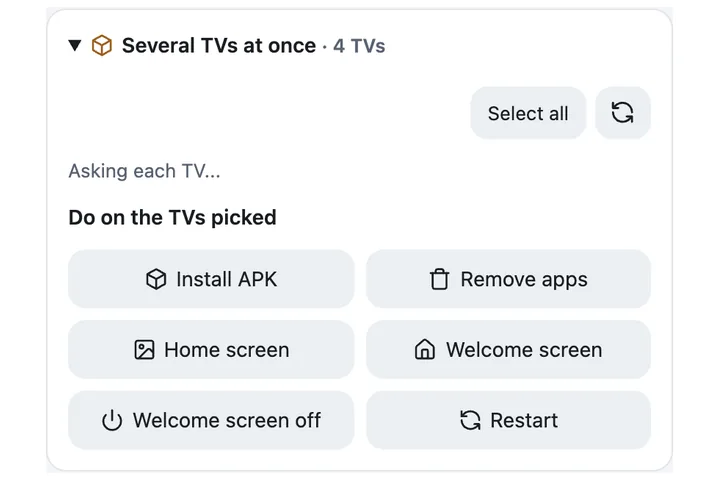
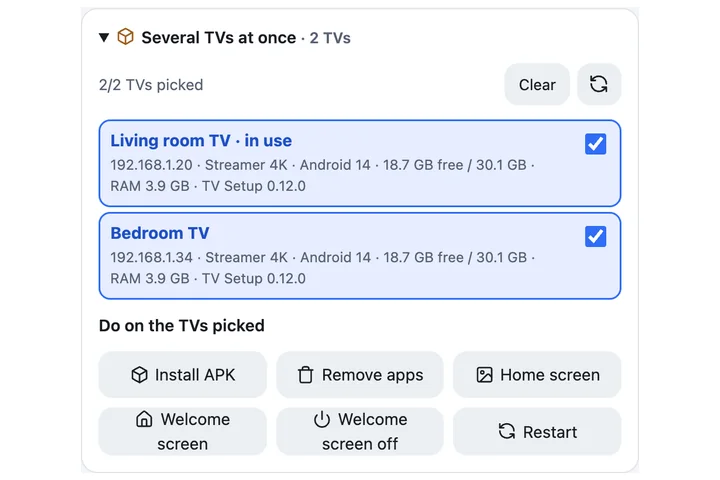
Home page: And more cards for Several TVs (demo shot with TV rows), TV settings (DNS filter, screensaver), TV health; 22 cards
Claude-Session: https://claude.ai/code/session_01VniwkGfJmfjur9oWWJ2baz

diff --git a/docs/index.html b/docs/index.html
@@ -174,7 +174,7 @@ function LI(i){var L=document.documentElement.dataset.lang;if(i.dataset.langSrcs
         <p class="lead"><span class="vi">Vuốt để xem thêm. Bấm vào thẻ để đọc hướng dẫn.</span><span class="en">Swipe for more. Tap a card for its guide.</span></p>
       </div>
       <div class="car-ctl" aria-label="Carousel">
-        <span class="car-n" id="car-n" aria-live="polite">1 / 20</span>
+        <span class="car-n" id="car-n" aria-live="polite">1 / 22</span>
         <button type="button" class="car-b" id="car-prev" aria-label="Previous" disabled><svg viewBox="0 0 24 24" fill="none" stroke="currentColor" stroke-width="2.4" stroke-linecap="round" stroke-linejoin="round"><path d="M15 5l-7 7 7 7"/></svg></button>
         <button type="button" class="car-b" id="car-next" aria-label="Next"><svg viewBox="0 0 24 24" fill="none" stroke="currentColor" stroke-width="2.4" stroke-linecap="round" stroke-linejoin="round"><path d="M9 5l7 7-7 7"/></svg></button>
       </div>
@@ -270,6 +270,16 @@ function LI(i){var L=document.documentElement.dataset.lang;if(i.dataset.langSrcs
           <img data-lang-src="img/feat-many-LANG.webp" width="720" height="480" alt="" loading="lazy"><script>LI(document.currentScript.previousElementSibling)</script>
           <h3><span class="vi">Nhiều TV cùng lúc</span><span class="en">Several TVs at once</span></h3>
           <p><span class="vi">Cài app, đổi màn hình chính, khởi động lại cho cả nhà hay khách sạn.</span><span class="en">Install apps, set the home screen, restart: for a house or a hotel.</span></p>
+        </a>
+        <a class="fc" href="guide#tvguard" id="fc-tvset">
+          <img data-lang-src="img/feat-tvset-LANG.webp" width="720" height="480" alt="" loading="lazy"><script>LI(document.currentScript.previousElementSibling)</script>
+          <h3><span class="vi">Lọc DNS, màn chờ, tự tắt</span><span class="en">DNS filter, screensaver, auto-off</span></h3>
+          <p><span class="vi">Chỉnh cài đặt TV từ xa; TV Setup tự sửa khi bộ lọc DNS làm mất mạng.</span><span class="en">Change TV settings from afar; TV Setup fixes a DNS filter that cuts the TV off.</span></p>
+        </a>
+        <a class="fc" href="guide#health" id="fc-health">
+          <img data-lang-src="img/feat-health-LANG.webp" width="720" height="480" alt="" loading="lazy"><script>LI(document.currentScript.previousElementSibling)</script>
+          <h3><span class="vi">Sức khỏe TV</span><span class="en">TV health</span></h3>
+          <p><span class="vi">CPU, RAM, bộ nhớ, nhiệt độ và app tốn máy nhất, xem từ điện thoại.</span><span class="en">CPU, RAM, storage, heat and the hungriest apps, from your phone.</span></p>
         </a>
         <a class="fc" href="guide#welcome" id="fc-welcome">
           <img data-lang-src="img/feat-welcome-LANG.webp" width="720" height="480" alt="" loading="lazy"><script>LI(document.currentScript.previousElementSibling)</script>
